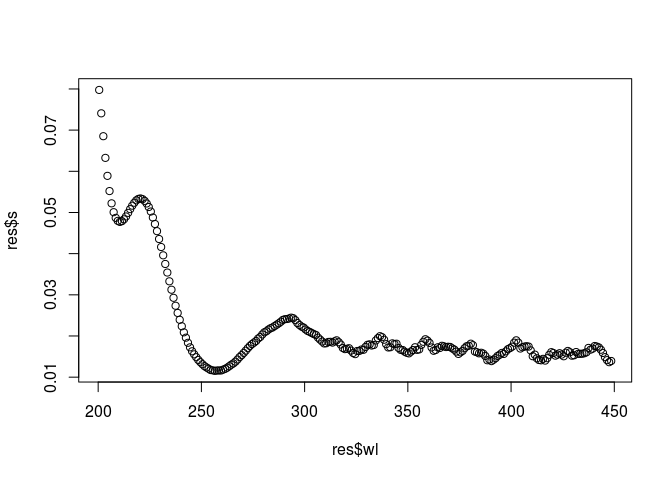
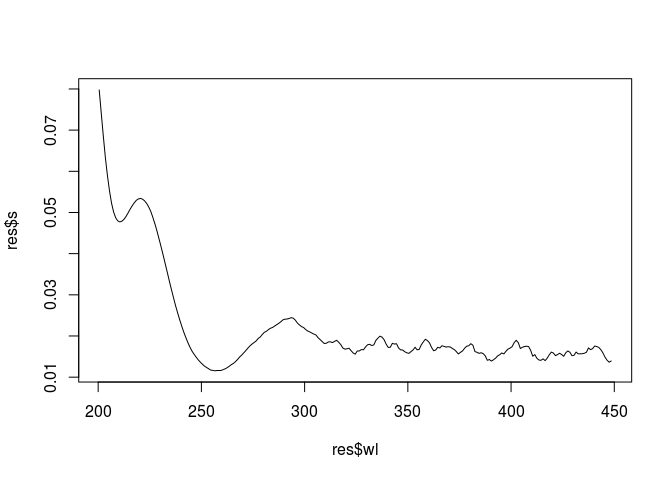
* Minor changes to README.

diff --git a/README.md b/README.md
@@ -74,7 +74,7 @@ library(cdom)
 data("spectra")
 
 res <-  spectral_curve(spectra$wavelength, spectra$absorbance)
-plot(res$wl, res$s)
+plot(res$wl, res$s, type = "l")
 ```
 
 ![](README-spectral_slope-1.png)
